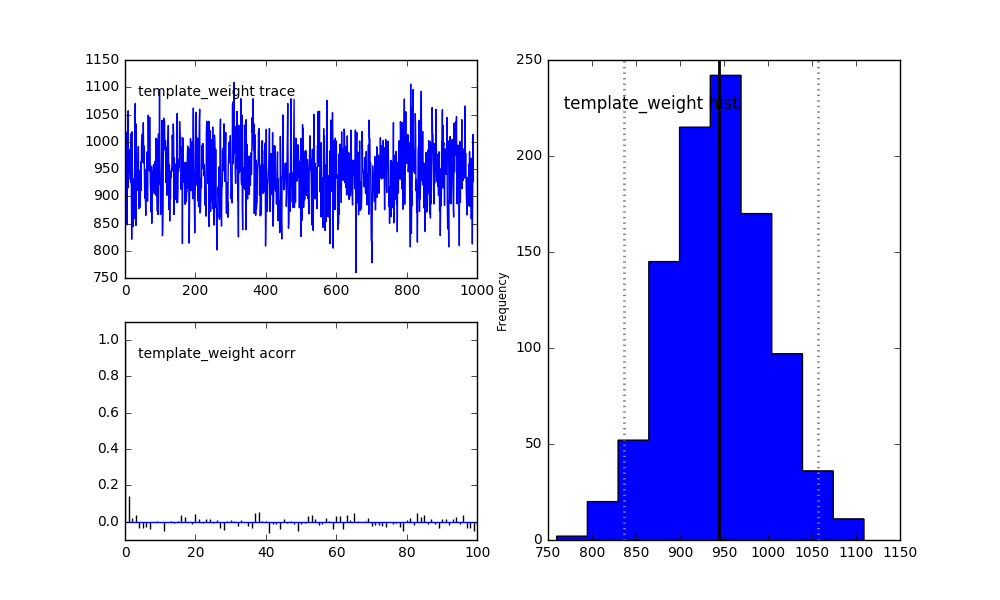
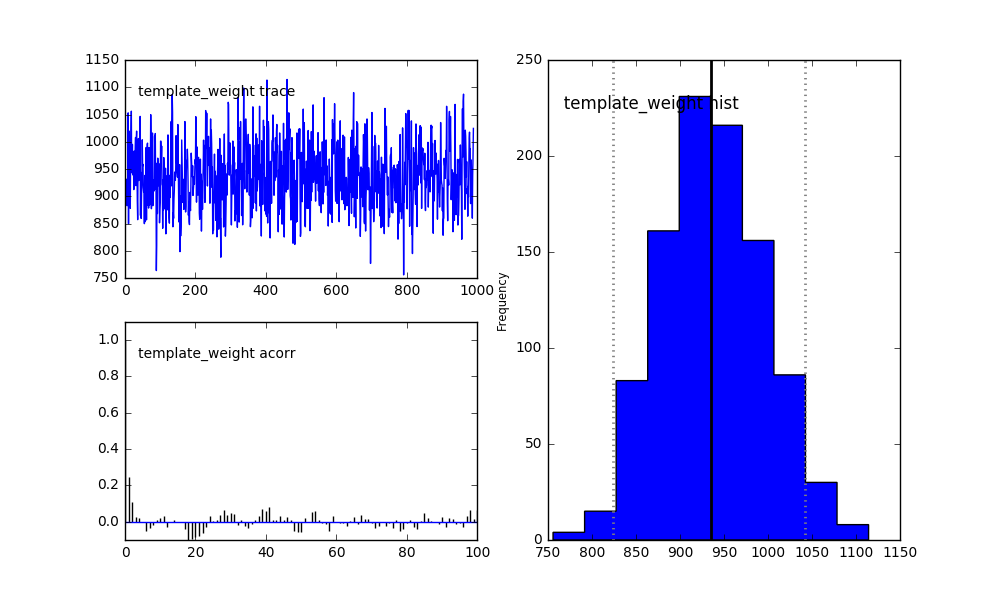
Add marginal_log_likelihood method.

diff --git a/remu/likelihood.py b/remu/likelihood.py
@@ -1677,6 +1677,61 @@ class LikelihoodMachine(object):
 
         return M
 
+    def marginal_log_likelihood(self, composite_hypothesis, parameters, toy_indices):
+        """Calculate the marginal likelihood.
+
+        Parameters
+        ----------
+
+        composite_hypothesis : CompositeHypothesis
+            The composite hypotheses for which the likelihood will be calculated.
+
+        parameters : array like
+            Array of parameter vectors, drawn from the prior or posterior distribution
+            of the hypothesis, e.g. with the MCMC objects::
+
+                parameters = [
+                    [1.0, 2.0, 3.0],
+                    [1.1, 1.9, 2.8],
+                    ...
+                    ]
+
+        toy_indices, : array_like
+            The corresponding systematic toy indices, in an array of equal
+            dimensionality. That means, even if the toy index is just a single
+            integer, it must be provided as arrays of length 1::
+
+                toy_indices0 = [
+                    [0],
+                    [3],
+                    ...
+                    ]
+
+        Returns
+        -------
+
+        L : float
+            The marginal log-likelihood.
+
+        Notes
+        -----
+
+        The marginal likelihood is used in the construction of bayes factors,
+        when comparing the evidence in the data for two hypotheses::
+
+            bayes_factor = marginal_likelihood0 / marginal_likelihood1
+
+        or in the case of log-likelihoods::
+
+            log_bayes_factor = marginal_log_likelihood0 - marginal_log_likelihood1
+
+        """
+
+        L = self.log_likelihood(composite_hypothesis.translate(parameters),
+            systematics=toy_indices)
+        print L
+        return np.logaddexp.reduce(L) - np.log(len(L))
+
     def plr(self, H0, parameters0, toy_indices0, H1, parameters1, toy_indices1):
         """Calculate the Posterior distribution of the log Likelihood Ratio.
 

diff --git a/docs/examples/04/do_mcmc.py b/docs/examples/04/do_mcmc.py
@@ -67,6 +67,28 @@ tA = traceA[:,np.newaxis]
 iA = toysA[:,np.newaxis]
 tB = traceB[:,np.newaxis]
 iB = toysB[:,np.newaxis]
+
+with open("B_posterior.txt", 'wt') as f:
+    print_(lm.marginal_log_likelihood(modelA_shape, tA, iA)
+        - lm.marginal_log_likelihood(modelB_shape, tB, iB), file=f)
+
+mcmcA_prior = lm.mcmc(modelA_shape, prior_only=True)
+mcmcA_prior.sample(iter=1000*10, burn=100, thin=10)
+mcmcB_prior = lm.mcmc(modelB_shape, prior_only=True)
+mcmcB_prior.sample(iter=1000*10, burn=100, thin=10)
+traceA_prior = mcmcA_prior.trace('template_weight')[:]
+traceB_prior = mcmcB_prior.trace('template_weight')[:]
+toysA_prior = mcmcA_prior.trace('toy_index')[:]
+toysB_prior = mcmcB_prior.trace('toy_index')[:]
+tAp = traceA_prior[:,np.newaxis]
+iAp = toysA_prior[:,np.newaxis]
+tBp = traceB_prior[:,np.newaxis]
+iBp = toysB_prior[:,np.newaxis]
+
+with open("B_prior.txt", 'wt') as f:
+    print_(lm.marginal_log_likelihood(modelA_shape, tAp, iAp)
+        - lm.marginal_log_likelihood(modelB_shape, tBp, iBp), file=f)
+
 ratios, preference = lm.plr(modelA_shape, tA, iA, modelB_shape, tB, iB)
 with open("plr.txt", 'wt') as f:
     print_(preference, file=f)

diff --git a/tests.py b/tests.py
@@ -1027,6 +1027,14 @@ class TestLikelihoodMachines(unittest.TestCase):
         M = self.L.mcmc(H)
         M.sample(100, burn=50, thin=10, tune_interval=10, progress_bar=False)
 
+    def test_marginal_likelihood(self):
+        """Test the marginal likelihood calculation"""
+        fun = lambda x: np.repeat(x, 2, axis=-1)
+        pri = JeffreysPrior(self.L.response_matrix, fun, [(0,100), (0,100)], (50,50))
+        H0 = CompositeHypothesis(fun, parameter_priors=[pri], parameter_names=['x'])
+        mll = self.L.marginal_log_likelihood(H0, [[50,50], [51,49]], [[0], [0]])
+        self.assertTrue(mll < 0)
+
     def test_plr(self):
         fun = lambda x: np.repeat(x, 2, axis=-1)
         pri = JeffreysPrior(self.L.response_matrix, fun, [(0,100), (0,100)], (50,50))

diff --git a/docs/examples/04/README.rst b/docs/examples/04/README.rst
@@ -10,6 +10,8 @@ Aims
 *   Use :meth:`.mcmc` to create a PyMC MCMC object
 *   Use Markov Chain Monte Carlo to create a posterior sample of
     :class:`.CompositeHypothesis` parameters
+*   Compare two hypotheses using :meth:`.marginal_log_likelihood` to calculate
+    the Bayes factor
 *   Compare two hypotheses using :meth:`.plr` to calculate the Posterior
     Distribution of the Likelihood Ratio
 *   Use a :class:`.JeffreysPrior`
@@ -162,10 +164,8 @@ analyses::
 Compare these central 1 and 2 sigma credible intervals with the confidence
 intervals of the previous examples.
 
-The posterior distributions of the parameters of the two hypotheses tell us
-nothing about the data preference for one or the other. To get this kind of
-information, we can use the Posterior distribution of the Likelihood Ratio
-(PLR)::
+To understand how the data favours one model over the other, we can calculate
+the (log of the) Bayes factor::
 
     toysA = mcmcA.trace('toy_index')[:]
     toysB = mcmcB.trace('toy_index')[:]
@@ -173,6 +173,43 @@ information, we can use the Posterior distribution of the Likelihood Ratio
     iA = toysA[:,np.newaxis]
     tB = traceB[:,np.newaxis]
     iB = toysB[:,np.newaxis]
+
+    print_(lm.marginal_log_likelihood(modelA_shape, tA, iA)
+        - lm.marginal_log_likelihood(modelB_shape, tB, iB))
+
+.. include:: B_posterior.txt
+    :literal:
+
+Model B is strongly favoured. This Bayes factor used the posterior average
+likelihood. Usually the prior average likelihood is used to avoid "using the
+data twice". We can do this by creating a :class:`MCMC` object that ignores the
+data and sampling from it::
+
+
+    mcmcA_prior = lm.mcmc(modelA_shape, prior_only=True)
+    mcmcA_prior.sample(iter=1000*10, burn=100, thin=10)
+    mcmcB_prior = lm.mcmc(modelB_shape, prior_only=True)
+    mcmcB_prior.sample(iter=1000*10, burn=100, thin=10)
+    traceA_prior = mcmcA_prior.trace('template_weight')[:]
+    traceB_prior = mcmcB_prior.trace('template_weight')[:]
+    toysA_prior = mcmcA_prior.trace('toy_index')[:]
+    toysB_prior = mcmcB_prior.trace('toy_index')[:]
+    tAp = traceA_prior[:,np.newaxis]
+    iAp = toysA_prior[:,np.newaxis]
+    tBp = traceB_prior[:,np.newaxis]
+    iBp = toysB_prior[:,np.newaxis]
+
+    print_(lm.marginal_log_likelihood(modelA_shape, tAp, iAp)
+        - lm.marginal_log_likelihood(modelB_shape, tBp, iBp), file=f)
+
+.. include:: B_prior.txt
+    :literal:
+
+Model B is still strongly favoured.
+
+Another possible value to check is the Posterior distribution of the Likelihood
+Ratio (PLR)::
+
     ratios, preference = lm.plr(modelA_shape, tA, iA, modelB_shape, tB, iB)
     print_(preference)
 
